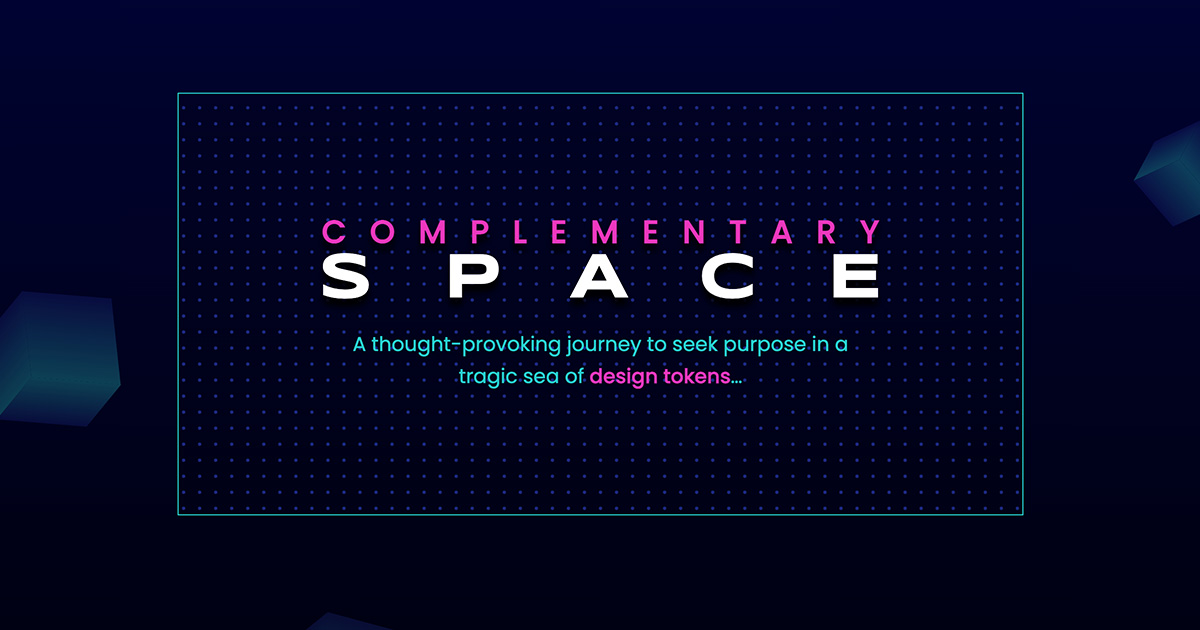
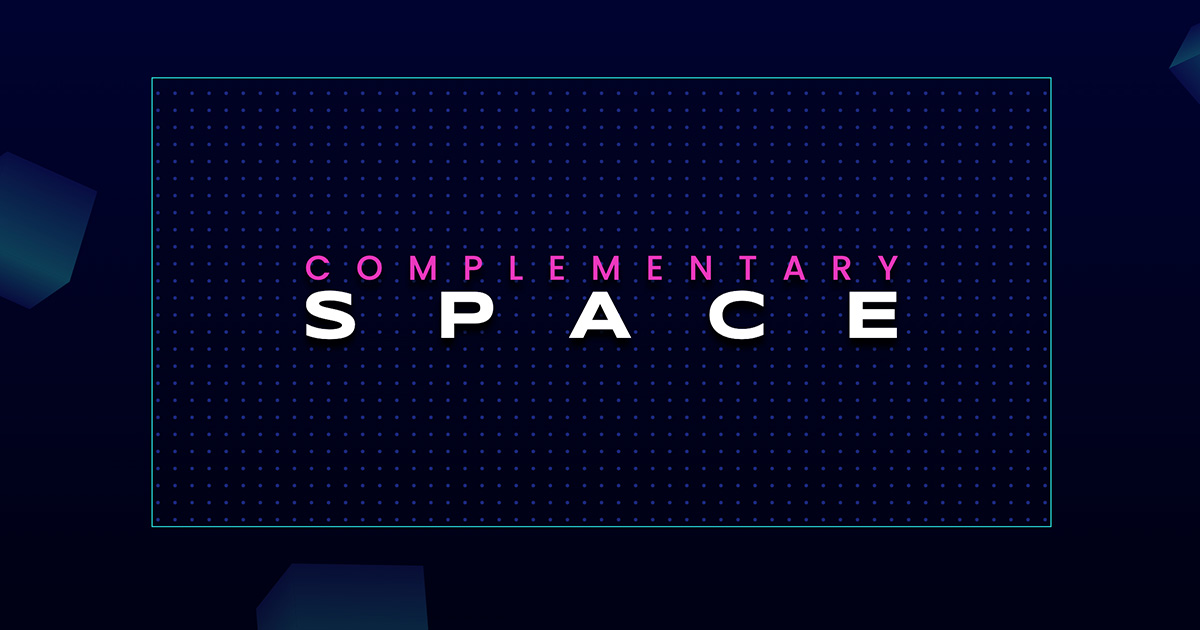
Description

diff --git a/src/public/style.css b/src/public/style.css
@@ -58,7 +58,7 @@ body {
 
 a, strong {
   color: var(--callout-accent);
-  font-weight: bolder;
+  font-weight: 500;
 }
 
 a {
@@ -78,6 +78,7 @@ main {
   overflow-x: hidden;
   overflow-y: auto;
   scroll-behavior: smooth;
+  scroll-padding-top: var(--space-away);
   padding: var(--space-away);
 }
 
@@ -135,13 +136,13 @@ p {
   max-width: 60px;
   background: transparent;
   direction: rtl;
-  transition: background 1s 1s ease, max-width .5s 1s ease;
+  transition: background 1s 1s ease, max-width .5s 0s ease;
   overflow: hidden;
 }
 
 .contents ul:hover {
   max-width: 100%;
-  background: var(--box-background);
+  background: #003;
   transition: background .5s ease, max-width 1s ease;
 }
 
@@ -166,24 +167,11 @@ p {
 
 /* =============================== hero styles =============================== */
 
-.hero {
-  aspect-ratio: 2/1;
-  display: flex;
-  align-items: center;
-  justify-content: center;
-  text-align: center;
-  flex-direction: column;
-  gap: var(--space-near);
-  padding: var(--space-away);
-}
-
 .hero h1 {
   text-transform: uppercase;
   display: flex;
   flex-direction: column;
-  align-items: center;
-  text-align: center;
-  font-size: min(3.2em, 7vw);
+  font-size: min(1em, 7vw);
   filter: drop-shadow(0 .125em 3px #000000);
   margin: 0;
 }
@@ -192,7 +180,6 @@ p {
   font-size: 50%;
   --letter-spacing: min(.73em, 3vw);
   letter-spacing: var(--letter-spacing);
-  text-indent: var(--letter-spacing);
 }
 
 .hero h1 span {
@@ -200,15 +187,19 @@ p {
   line-height: 1;
   --letter-spacing: min(1.1em, 9vw);
   letter-spacing: var(--letter-spacing);
-  text-indent: var(--letter-spacing);
   color: var(--box-accent);
 }
 
 .hero p {
-  max-width: 45ch;
-  padding-inline: var(--space-near);
   color: var(--callout-foreground);
   margin: 0;
+  margin-block-start: var(--space-away);
+  font-size: var(--text-title);
+  line-height: 1.1;
+}
+
+.hero strong {
+  font-weight: normal;
 }
 
 /* =============================== content styles =============================== */
@@ -246,7 +237,7 @@ p {
 }
 
 .content :where(p, img, blockquote, hr, pre, ul) + p {
-  text-indent: 4ch;
+  text-indent: min(4ch, 4vw);
 }
 
 .content :where(blockquote, hr) {

diff --git a/src/_data/site.js b/src/_data/site.js
@@ -7,5 +7,5 @@ const url = process.env.ELEVENTY_ENV === 'dev'
 module.exports = {
   url,
   title: "Complementary Space",
-  description: "A provocative take on how we think of space in design",
+  description: "A scalable semantic system to brilliantly curate space in web design",
 }

diff --git a/src/pages/index.md b/src/pages/index.md
@@ -22,7 +22,7 @@ Many web applications and sites were designed in a primarily light colored theme
 
 As described above, design tokens should be able to drive this task. Places which used to be one value assigned by a token now needed to resolve to an entirely different value. This should be as easy as changing the current value of `--color-blue-500` to another color. Except, this will ruin the relationship between the name and the value that was once assigned. As a more dramatic example, body text which might be `--color-black` now needed to have a light color assigned for dark-mode. This would ultimately cause confusion when designing an entire experience with dozens of tokens named after their colors.
 
-The answer here was to name the token by expected usage within the design. These are called "semantic tokens" and they describe purpose instead of describing the value itself. This introduces tokens such as `--body-background-color` which can be used to inform the web page background color without hinting at what the final color value is. This allows the background to be either a light color or dark one depending on an earlier assignment. Using semantic tokens in the styling of the application not only helps support light and dark-mode, but also any additional themeing experiements that the organization may want to explore.
+The answer here was to name the token by expected usage within the design. These are called "**semantic tokens**" and they describe purpose instead of describing the value itself. This introduces tokens such as `--body-background-color` which can be used to inform the web page background color without hinting at what the final color value is. This allows the background to be either a light color or dark one depending on an earlier assignment. Using semantic tokens in the styling of the application not only helps support light and dark-mode, but also any additional themeing experiements that the organization may want to explore.
 
 Semantic tokens are a quality of life improvement similar to writing the name of a room on a paint can, and opposed to writing the name of a color on the walls of a room. **Label the paint can instead of the wall.** You can quickly recall the colors of each room by visiting the place with cans, make changes, and reassociate. All of this is done without visiting a single painted room to verify the color. [^paint]
 
@@ -93,7 +93,7 @@ The wireframe on the left could be a page, or a card within a page. The wirefram
 
 The notion of density shifts supports the creative freedom for designers while maintaining a systematic application of the tokens. This provides designers the flexibility to decide if an area of the experience is meant to be spacious, compact, or something in between. Furthermore, a robust system where the spacing tokens are informed by a single grid unit value could support a themeable spacing system. One theme could support a roomy interface while another expects a data-dense table with a single value difference between them.
 
-This approach isn't limited to describing the area between objects. Many systems will tightly couple typography metrics to curate overall vertical rhythm in a composition. The density shift concept can be leveraged to drive font size changes in new contexts. As an example, a section title of a page should be hierarchically similar to the title of a card in comparison to the surrounding content for each.[^importance] Meanwhile, line-height is inversely proportional to density for the purposes of readability since observers are reading content across densities.
+This approach isn't limited to describing the space between objects. Many systems will tightly couple typography metrics to curate overall vertical rhythm in a composition. The density shift concept can be leveraged to drive font size changes in new contexts. As an example, a section title of a page should be hierarchically similar to the title of a card in comparison to the surrounding content for each.[^importance] Meanwhile, line-height is inversely proportional to density for the purposes of readability since observers are reading content across densities.
 
 ### Execution
 ## Filling the void
